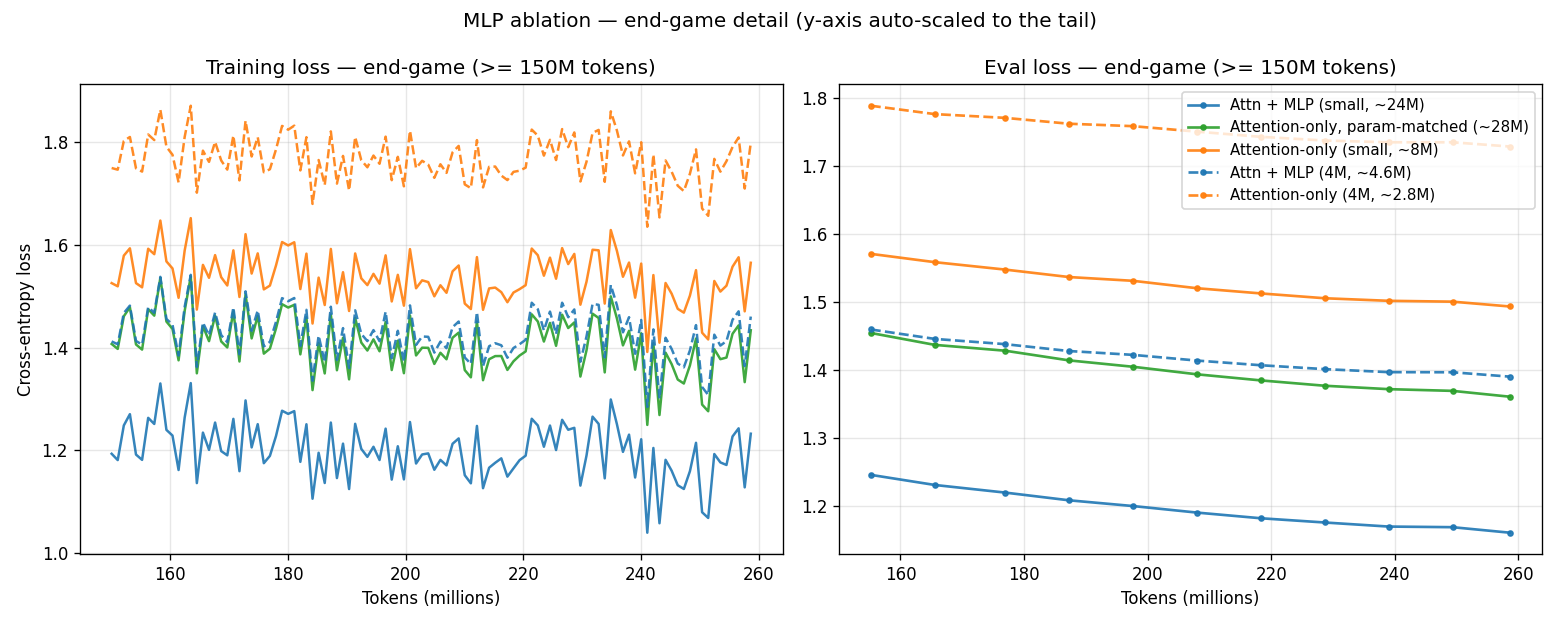
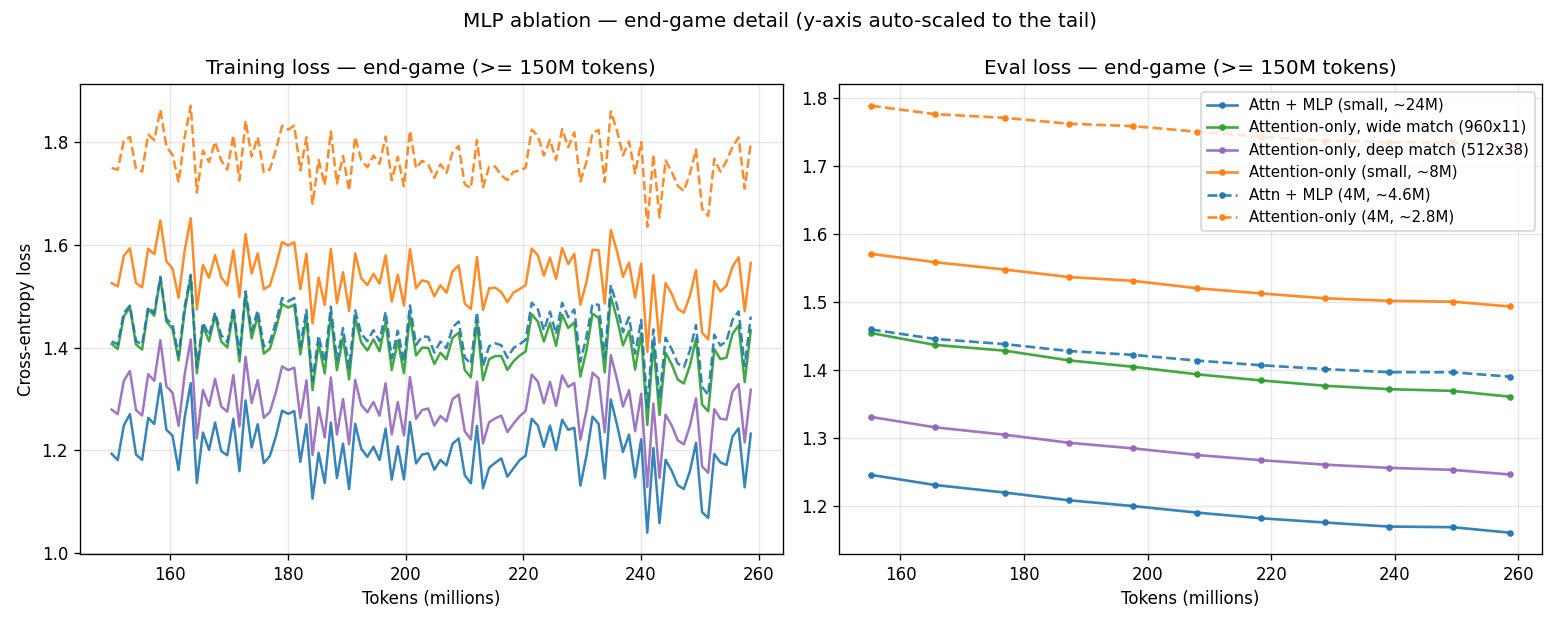
experiment(attention_only): add deep (512x38) attention-only param-match
Follow-up to the MLP ablation: the deep/thin counterpart to the wide (960x11)
param-matched attention-only model, matching mlp_small on both non-embedding
(~19.9M) and total (~24M) parameters.

Two questions answered:
- Does a 38-layer attention-only stack train? Yes -- stably, on the model's
  default pre-norm alone (grad-norm 0.30-1.53, mean 0.41, no spikes). No DeepNet
  or gradient clipping needed.
- Depth vs width at equal params: depth wins clearly. Deep (512x38) reaches eval
  1.247 vs the wide (960x11) match's 1.361, and lands within ~0.085 of the
  equal-parameter +MLP model (1.162) -- the closest any attention-only model gets.
  Consistent with the circuits view that attention composes through depth.

Adds the singlehead small_attention_only_deep config + the experiment's
attn_only_deep_small run; regenerates plots; rewrites the results/analysis to
fold in the depth-vs-width and stability findings. Also clarifies the sibling
'matched' config's description (it is the *wide* match).

diff --git a/examples/tiny_experiments/attention_only/assets/generate_plots.py b/examples/tiny_experiments/attention_only/assets/generate_plots.py
@@ -28,12 +28,13 @@ HERE = os.path.dirname(os.path.abspath(__file__))
 PROJECT = os.path.dirname(HERE)
 OUTPUT_MODELS = os.path.join(PROJECT, "output_models")
 
-BLUE, ORANGE, GREEN = "#1f77b4", "#ff7f0e", "#2ca02c"
+BLUE, ORANGE, GREEN, PURPLE = "#1f77b4", "#ff7f0e", "#2ca02c", "#9467bd"
 
 # output-model dir -> (label, color, linestyle). Order controls legend / bars.
 MODELS = [
     ("mlp_small", "Attn + MLP (small, ~24M)", BLUE, "-"),
-    ("attn_only_matched_small", "Attention-only, param-matched (~28M)", GREEN, "-"),
+    ("attn_only_matched_small", "Attention-only, wide match (960x11)", GREEN, "-"),
+    ("attn_only_deep_small", "Attention-only, deep match (512x38)", PURPLE, "-"),
     ("attn_only_small", "Attention-only (small, ~8M)", ORANGE, "-"),
     ("mlp_4m", "Attn + MLP (4M, ~4.6M)", BLUE, "--"),
     ("attn_only_4m", "Attention-only (4M, ~2.8M)", ORANGE, "--"),

diff --git a/examples/tiny_experiments/attention_only/README.md b/examples/tiny_experiments/attention_only/README.md
@@ -24,12 +24,14 @@ muddies the query/key/value content — see the
 | **Attention-only** | `x = x + attn(norm(x))` | `AttentionOnlyLayer` |
 
 Removing the MLP without compensating drops parameters — at the small width the
-MLP is the *majority* of the model. So the experiment runs two kinds of
-attention-only model: a plain one (MLP simply deleted) and a **param-matched**
-one that re-spends the MLP's capacity as wider, deeper attention (hidden 960 ×
-11 layers) so its *non-embedding* parameter count matches the +MLP model. That
-second arm is the fairer test: it asks whether the MLP does something attention
-*can't*, separated from whether it just adds capacity.
+MLP is the *majority* of the model. So beyond the plain attention-only model (MLP
+simply deleted), the experiment includes **param-matched** attention-only models
+that re-spend the MLP's capacity as more attention, matching the +MLP model's
+*non-embedding* parameter count. There are two, which also lets us ask whether
+**depth or width** is the better way to spend an attention budget:
+
+- a **wide** match — hidden 960 × 11 layers, and
+- a **deep** match — hidden 512 × 38 layers (same width as `mlp_small`).
 
 | Run | hidden / layers / inter | MLP? | Non-emb | Params |
 |---|---|---|---|---|
@@ -37,12 +39,13 @@ second arm is the fairer test: it asks whether the MLP does something attention
 | `attn_only_4m` | 256 / 6 / — | no | 0.8M | 2.8M |
 | `mlp_small` | 512 / 8 / 1280 | yes | 19.9M | 24M |
 | `attn_only_small` | 512 / 8 / — | no | 4.2M | 8.3M |
-| `attn_only_matched_small` | 960 / 11 / — | no | 20.3M | 28M |
+| `attn_only_matched_small` (wide) | 960 / 11 / — | no | 20.3M | 28M |
+| `attn_only_deep_small` (deep) | 512 / 38 / — | no | 19.9M | 24M |
 
-`attn_only_matched_small` matches `mlp_small` on non-embedding parameters (~20M)
-to within ~2%. A naive depth-only match would need ~38 layers at width 512;
-widening to 960 keeps the depth at a stable 11 (very deep attention-only stacks
-get hard to train).
+Both param-matched models match `mlp_small` on non-embedding parameters (~20M);
+the deep one, sharing the 512 width, matches it on *total* parameters too. A
+38-layer single-head stack is deep enough to worry about training stability —
+which turns out to be a non-issue here (see below).
 
 ## Setup
 
@@ -56,12 +59,13 @@ get hard to train).
 
 ## Results
 
-All five runs trained on the same 258M tokens. Best eval loss (cross-entropy):
+All six runs trained on the same 258M tokens. Best eval loss (cross-entropy):
 
 | Run | Non-emb params | Best eval loss |
 |---|---:|---:|
 | `mlp_small` (attn + MLP, ~24M) | 19.9M | **1.162** |
-| `attn_only_matched_small` (attn-only, ~28M) | 20.3M | 1.361 |
+| `attn_only_deep_small` (attn-only, 512×38) | 19.9M | 1.247 |
+| `attn_only_matched_small` (attn-only, 960×11) | 20.3M | 1.361 |
 | `mlp_4m` (attn + MLP, ~4.6M) | 1.7M | 1.391 |
 | `attn_only_small` (attn-only, ~8M) | 4.2M | 1.493 |
 | `attn_only_4m` (attn-only, ~2.8M) | 0.8M | 1.728 |
@@ -70,28 +74,37 @@ All five runs trained on the same 258M tokens. Best eval loss (cross-entropy):
 
 ![Training and eval loss vs tokens](assets/loss_comparison.png)
 
-Three things stand out:
+Four things stand out:
 
-1. **At equal parameters, the MLP wins decisively.** `mlp_small` and
-   `attn_only_matched_small` have the *same* non-embedding budget (~20M), yet the
-   MLP model is **0.20 eval loss** ahead (1.16 vs 1.36). Spending that capacity on
-   wider, deeper attention does **not** reproduce what the MLP does — so the MLP's
-   value is not merely "more parameters."
+1. **At equal parameters the MLP still leads — but a well-shaped attention-only
+   gets close.** `mlp_small` (1.16) beats every attention-only model on its own
+   parameter budget, but the best attention-only model (the deep match, 1.25) is
+   only ~0.085 behind, not the 0.20 the *wide* match (1.36) would suggest. The
+   MLP's edge is real but smaller than the naive ablation implies.
 
-2. **The MLP is strikingly parameter-efficient.** `mlp_4m` carries only **1.7M**
-   non-embedding parameters yet reaches 1.39 — essentially tying the
-   param-matched attention-only model with **20M** non-embedding parameters
-   (1.36), and comfortably beating the 8M attention-only model (1.49). A little
-   MLP compute is worth an order of magnitude more attention compute.
+2. **Depth beats width for attention-only.** At the same ~20M non-embedding
+   budget, stacking attention deep (512 × 38 → 1.25) clearly beats spreading it
+   wide (960 × 11 → 1.36) — a 0.11 gap. Attention composes information *through
+   depth* (an induction head already needs two layers; richer circuits need
+   more), so extra layers buy more than extra width. This is the kind of result
+   the Transformer Circuits view predicts.
 
-3. **Adding attention capacity helps, but with diminishing returns toward the
-   MLP.** Going from the 8M to the 28M attention-only model buys 0.13 eval loss
-   (1.49 → 1.36) — real, but it stalls ~0.20 short of the equal-param MLP model
-   and well short of where the trend would need to continue.
+3. **The MLP is strikingly parameter-efficient.** `mlp_4m` carries only **1.7M**
+   non-embedding parameters yet reaches 1.39 — essentially tying the *wide*
+   attention-only model with **20M** non-embedding parameters (1.36), and beating
+   the 8M attention-only model (1.49). A little MLP compute is worth an order of
+   magnitude more attention compute.
+
+4. **The 38-layer stack trained perfectly stably.** No DeepNet, no gradient
+   clipping, no warmup tricks — just the model's default pre-norm. Grad-norm
+   stayed in the 0.30–1.53 band the entire run (mean 0.41) and never spiked. So
+   the depth that worried us up front was a non-issue: **pre-norm alone carries an
+   attention-only stack to 38 layers**, which is itself the answer to "can it even
+   be trained?"
 
 (MFU is low across the board — the single-head model runs eager-only with no
 `torch.compile` or flash kernels, so these are not throughput-representative
-numbers; the deeper/wider runs simply keep the GPU busier.)
+numbers.)
 
 ## Generation (subjective)
 
@@ -146,6 +159,16 @@ token-soup of its smaller sibling. So a good chunk of what looked like "the MLP
 matters" is really "enough capacity matters"; given equal parameters, attention
 alone can hold a story together.
 
+**`attn_only_deep_small` (attention-only, 512×38) — the best of the attention-only lot:**
+
+> Alice was so tired when she got back home so she went **to the kitchen and found
+> a big jar of cookies. She wanted one, but knew she had to wait for her mommy
+> before she could open it.**
+
+The deep attention-only model reads as cleanly as the wide one and a notch
+sharper — consistent with its lower loss. Same parameter budget as the wide
+match, spent on depth instead of width.
+
 **`mlp_4m` (attn + MLP, 4.6M) — coherent despite being tiny:**
 
 > Jack wanted to read a book, so he went to **find an interesting book. He looked
@@ -171,13 +194,22 @@ Circuits*: **attention moves and copies information; the MLP computes on it.** Y
 can lean hard on attention and still produce fluent TinyStories, but the MLP is a
 much cheaper place to put the "thinking," and at a fixed parameter budget it wins.
 
+The depth result refines this. When you *do* spend the budget on attention,
+spend it on **layers, not width**: each additional layer is another round of
+compositional reading of the residual stream, and that is where attention's power
+lives. The deep attention-only model both trains stably (38 pre-norm layers, no
+special machinery) and lands within ~0.085 of the equal-parameter MLP model —
+the closest any attention-only model gets. Depth doesn't replace the MLP, but it
+narrows the gap far more effectively than width does.
+
 ## Reproducing
 
 ```bash
 cd examples/tiny_experiments/attention_only
 
-# Queue all four runs, one GPU each (needs a running forgather server)
-for cfg in mlp_4m attn_only_4m mlp_small attn_only_small; do
+# Queue all six runs, one GPU each (needs a running forgather server)
+for cfg in mlp_4m attn_only_4m mlp_small attn_only_small \
+           attn_only_matched_small attn_only_deep_small; do
     forgather -t "$cfg.yaml" submit --requested-gpus 1
 done
 
